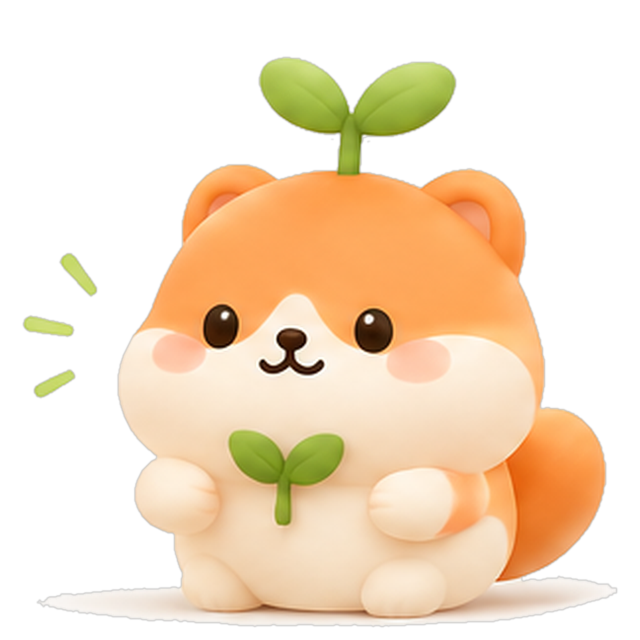
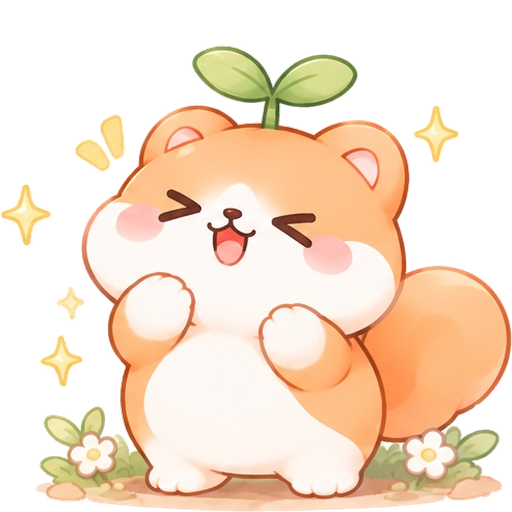
feat: 새 펫 그림으로 교체, 단계 이름은 계획서대로 꽃·열매, 목표 달성 수만큼 왕관 6종
Claude-Session: https://claude.ai/code/session_011WyCzbzg5y7wdiBpNbhgWc

diff --git a/lib/ui/widgets.dart b/lib/ui/widgets.dart
@@ -214,13 +214,14 @@ class _TrendPainter extends CustomPainter {
 }
 
 /// 팀 캐릭터. 단계마다 그림과 크기가 바뀐다.
-String petImage(PetStage s) => 'assets/images/pets/${switch (s) {
+/// 왕관 단계는 달성한 목표 수만큼 왕관이 바뀐다(6개째부터 같은 그림).
+String petImage(PetStage s, {int crowns = 1}) => 'assets/images/pets/${switch (s) {
       PetStage.none || PetStage.seed => 'seed',
       PetStage.sprout => 'sprout',
       PetStage.growing => 'growing',
-      PetStage.flower => 'gold',
-      PetStage.fruit => 'cape',
-      PetStage.crown => 'crown',
+      PetStage.flower => 'flower',
+      PetStage.fruit => 'fruit',
+      PetStage.crown => 'crown${crowns.clamp(1, 6)}',
     }}.png';
 
 /// 앞 단계일수록 작게 그려 자라는 느낌을 준다.
@@ -272,8 +273,8 @@ class _MascotState extends State<Mascot> with SingleTickerProviderStateMixin {
                       child: AnimatedSwitcher(
                           duration: MediaQuery.disableAnimationsOf(context) ? Duration.zero : const Duration(milliseconds: 500),
                           transitionBuilder: (c, a) => ScaleTransition(scale: Tween(begin: .8, end: 1.0).animate(CurvedAnimation(parent: a, curve: Curves.easeOutBack)), child: FadeTransition(opacity: a, child: c)),
-                          child: Image.asset(petImage(widget.stage),
-                              key: ValueKey(widget.stage), width: widget.size * k, height: widget.size * k, fit: BoxFit.contain, filterQuality: FilterQuality.medium, excludeFromSemantics: true))),
+                          child: Image.asset(petImage(widget.stage, crowns: widget.crowns),
+                              key: ValueKey(petImage(widget.stage, crowns: widget.crowns)), width: widget.size * k, height: widget.size * k, fit: BoxFit.contain, filterQuality: FilterQuality.medium, excludeFromSemantics: true))),
                   if (widget.worried) Positioned.fill(child: CustomPaint(painter: _Drop())),
                 ]))));
   }

diff --git a/test/ui/pet_test.dart b/test/ui/pet_test.dart
@@ -5,14 +5,28 @@ import 'package:flutter_test/flutter_test.dart';
 import 'package:mm_app/domain/growth.dart';
 import 'package:mm_app/ui/widgets.dart';
 
+String hash(String path) => md5.convert(File(path).readAsBytesSync()).toString();
+
 void main() {
   test('씨앗부터 왕관까지 단계마다 다른 그림이고 뒤 단계일수록 크다', () {
     final stages = PetStage.values.skip(1).toList();
-    final hashes = {for (final s in stages) md5.convert(File(petImage(s)).readAsBytesSync()).toString()};
-    expect(hashes.length, stages.length);
+    expect({for (final s in stages) hash(petImage(s))}.length, stages.length);
     for (var i = 1; i < stages.length; i++) {
       expect(petScale(stages[i]), greaterThanOrEqualTo(petScale(stages[i - 1])), reason: stages[i].name);
     }
     expect(petScale(PetStage.seed), lessThan(petScale(PetStage.crown)));
+  });
+
+  test('목표를 달성할 때마다 왕관이 바뀌고 6번째부터는 마지막 왕관', () {
+    final crowns = [for (var n = 1; n <= 6; n++) petImage(PetStage.crown, crowns: n)];
+    expect({for (final p in crowns) hash(p)}.length, 6);
+    expect(petImage(PetStage.crown, crowns: 9), crowns.last);
+    expect(petImage(PetStage.crown, crowns: 0), crowns.first);
+    expect(petImage(PetStage.fruit, crowns: 3), petImage(PetStage.fruit));
+  });
+
+  test('단계 이름은 계획서대로 꽃과 열매', () {
+    expect(PetStage.flower.label, '꽃');
+    expect(PetStage.fruit.label, '열매');
   });
 }

diff --git a/lib/domain/growth.dart b/lib/domain/growth.dart
@@ -5,9 +5,9 @@ enum PetStage {
   none('만나기 전', '금융정보를 입력하면 씨앗을 받아요'),
   seed('씨앗', '저축 1번과 7일 중 5일 기록이면 새싹이 돼요'),
   sprout('새싹', '목표 5%를 모으면 자라기 시작해요'),
-  growing('성장', '목표 25%를 모으면 금빛 펫이 돼요'),
-  flower('금빛', '목표 75%를 모으면 금빛 망토를 받아요'),
-  fruit('금빛 망토', '목표 100%를 달성하면 왕관을 받아요'),
+  growing('성장', '목표 25%를 모으면 꽃이 피어요'),
+  flower('꽃', '목표 75%를 모으면 열매가 열려요'),
+  fruit('열매', '목표 100%를 달성하면 왕관을 받아요'),
   crown('왕관', '새 목표를 달성할 때마다 왕관이 화려해져요');
 
   const PetStage(this.label, this.next);
